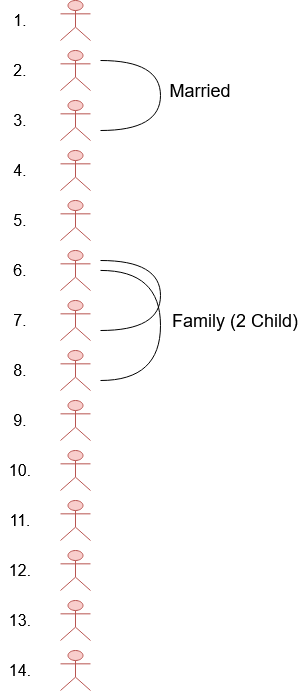
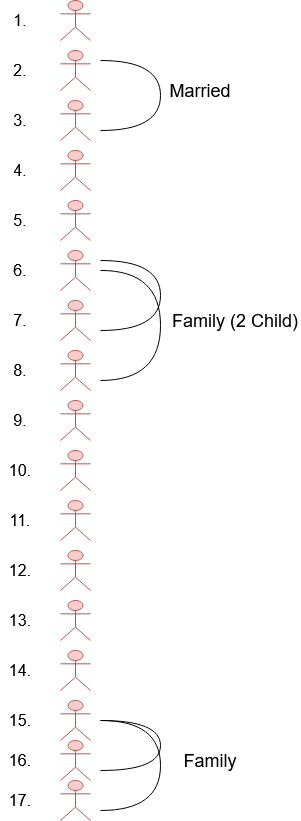
updated information

diff --git a/index.html b/index.html
@@ -121,7 +121,7 @@
           <div class="col s12 m4 l4">
             <div class="card round center-align hoverable">
               <div class="card-content">
-                <h1 class="caseCard">14</h1>
+                <h1 class="caseCard">17</h1>
                 <h6>Coronavirus cases</h6>
               </div>
             </div>
@@ -199,6 +199,14 @@
                   4 new person detected corona positive (2 returnees of Italy(1
                   male), 1 from Kuwait, another one is affected by an old corona
                   patient) (Total: 3 man, 1 woman)
+                </p>
+              </li>
+              <li class="collection-item">
+                <span class="title">19th march,2020</span>
+                <p>
+                  3 person detected corona positive. 2 of them are men age of 65
+                  years and 32 years. 1 woman of age 22 years. They were
+                  affected by their relative who came from Italy.
                 </p>
               </li>
             </ul>
